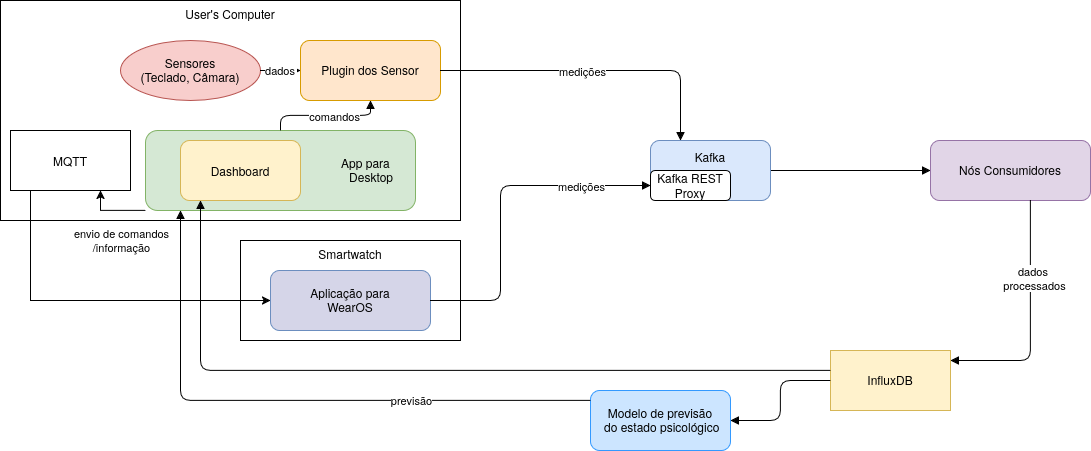
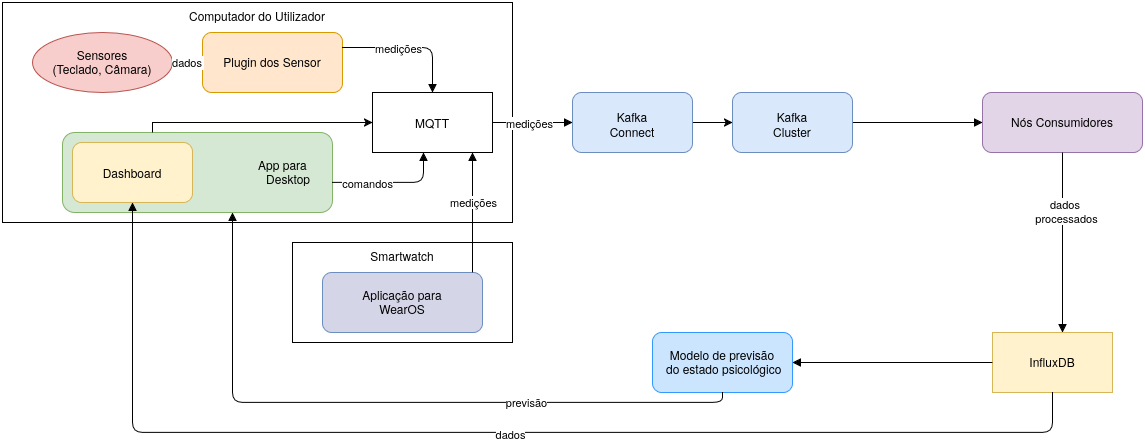
updated architecture to include kafka connect

diff --git a/chapters/chapter3.tex b/chapters/chapter3.tex
@@ -42,15 +42,13 @@ O sistema presente na Figura~\ref{fig:sys_arq} possui uma arquitetura descentral
     \begin{itemize}
         \item \textbf{App para Desktop:} Esta app feita em Python será o principal ponto de acesso por parte do utilizador e permitirá ao utilizador não só controlar todos os sensores de forma centralizada (iniciar ou parar uma sessão e definir que sensores serão utilizados em cada sessão), mas também ver os valores medidos pelos sensores e a evolução do seu nível de atenção ao longo de cada sessão.
         \item \textbf{Plugins para sensores locais:} Cada sensor presente no computador do utilizador (teclado e câmara) terá o seu próprio plugin responsável por recolher os dados do respetivo sensor, remover informação irrelevante e enviar as medições para o Kafka. Estes plugins serão controlados diretamente pelo utilizador através da app.
-        \item \textbf{Broker MQTT local:} Este broker \ac{MQTT} (nativo do próprio python) servirá para comunicação entre a app e o smartwatch, permitindo o envio de comandos e a troca de informação entre estes.
-        \item \textbf{App para WearOS:} Esta app em Kotlin permitirá a medição de \ac{HRV} (extrapolado através dos batimentos por minuto) e o envio destes para o Kafka (através do REST Proxy).
+        \item \textbf{Broker MQTT local:} Este broker irá correr localmente no computador do próprio utilizador e servirá não só como meio de comunicação entre os sensores e o programa principal, mas também servirá como buffer dos dados, permitindo o envio eventual dos dados mesmo que o cluster kafka esteja em baixo.
+        \item \textbf{App para WearOS:} Esta app em Kotlin permitirá a medição de \ac{HRV} (extrapolado através dos batimentos por minuto) e o envio destes para o broker \ac{MQTT} local.
     \end{itemize}
     \item \textbf{Componentes externos:}
     \begin{itemize}
+        \item \textbf{Kafka Connect:} O Kafka Connect estabelece a ligação entre o broker \ac{MQTT} local e o Kafka, permitindo ingestão de dados de forma automática e assíncrona e eliminando a necessidade de os integrar de foram manual.
         \item \textbf{Kafka:} O Kafka permite gerir o fluxo de dados entre os plugins e os respetivos consumidores, garantindo a entrega de mensagens de forma escalável e tolerante a falhas.
-        \begin{itemize}
-            \item \textbf{Kafka REST Proxy:} Adaptador que permite o acesso ao Kafka através duma interface \ac{REST} para dispostivos (como o smartwatch) que não consigam utilizar a interface nativa do Kafka.
-        \end{itemize}
         \item \textbf{Nós Consumidores:} Estes nós escritos em Python têm como objetivo receber os dados enviados pelos sensores (através de Kafka) e processá-los antes de os inserir no InfluxDB. Cada nó processa um tipo de sensor diferente, permitindo assim escalar horizontalmente estes componentes de forma independente.
         \item \textbf{InfluxDB:} Base de dados Time Series onde os dados são armazenados após serem processados e alimenta a app para desktop e o componente preditivo. InfluxDB em particular foi escolhido visto ser a base de dados Time Series com a melhor documentação e suporte que encontrei até agora.
         \item \textbf{Modelo de previsão do estado psicológico:} Componente responsável por utilizar os dados presentes no InfluxDB de modo a estimar o estado psicológico do utilizador. Devido ao facto de que o modelo em si não é o foco do trabalho, bem como do esforço necessário para recolher os dados necessários, este componente não irá utilizar um modelo de Inteligência artificial, mas sim um modelo comparativo.
